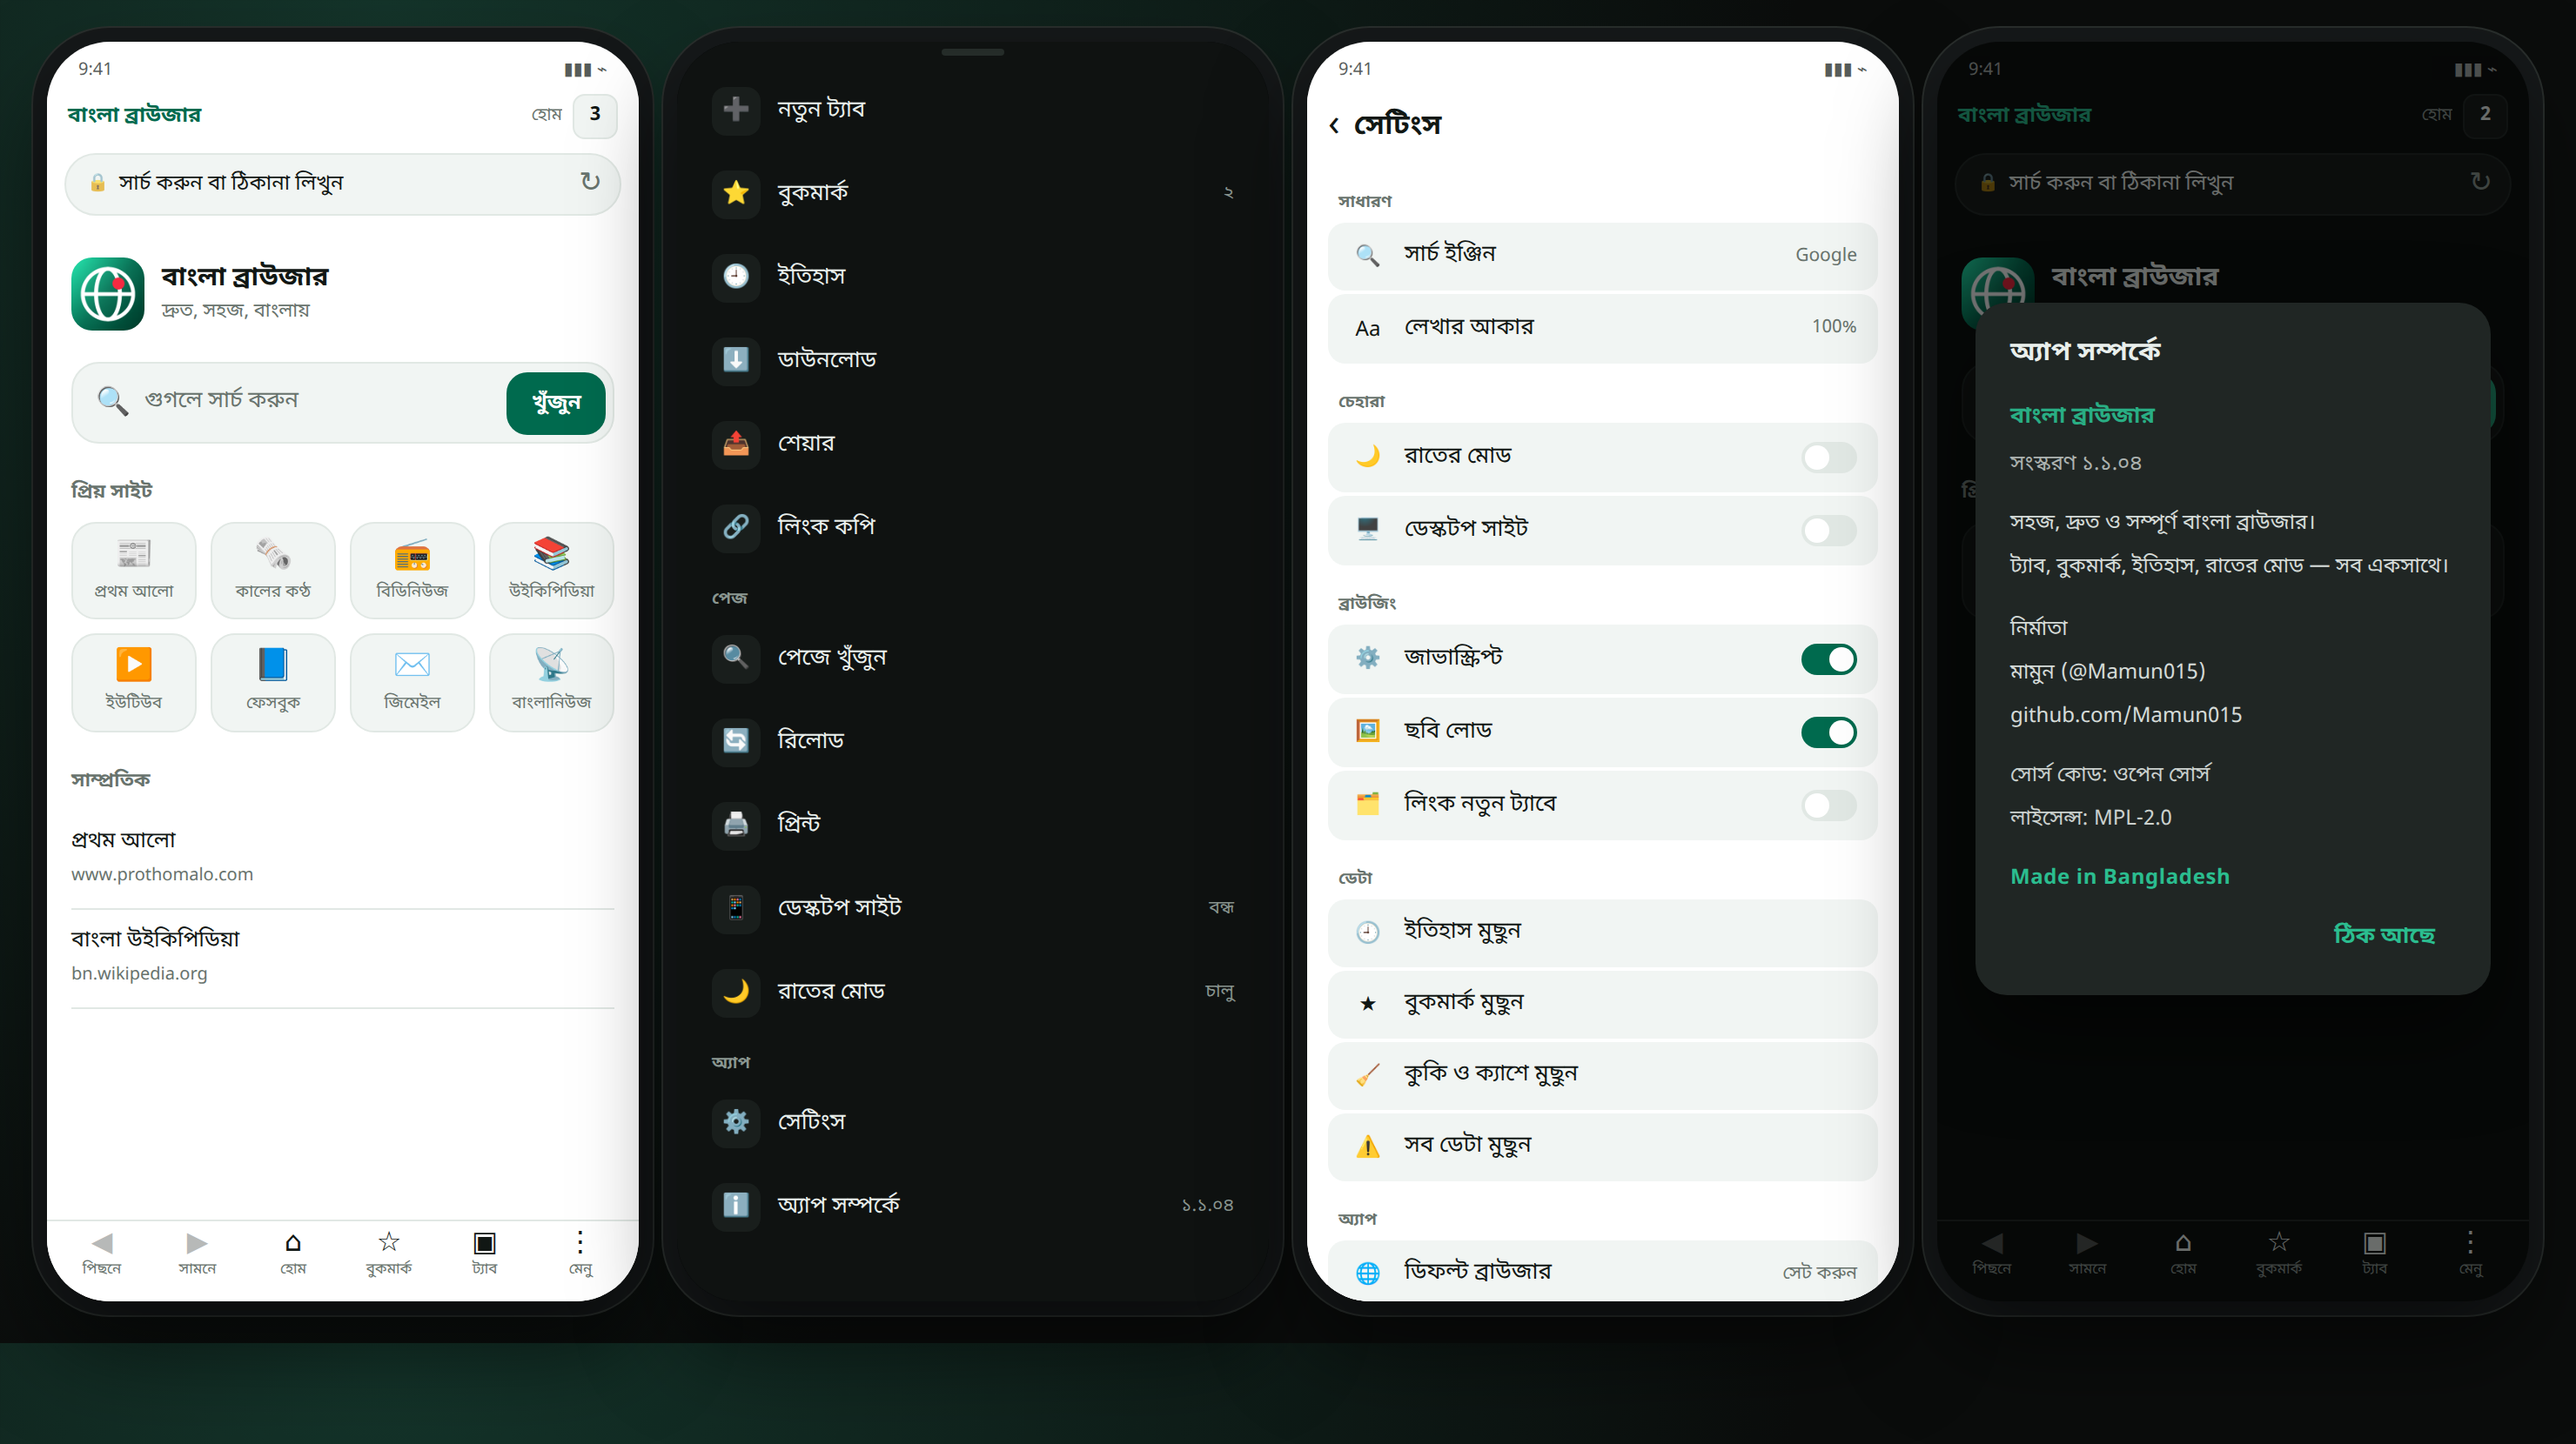
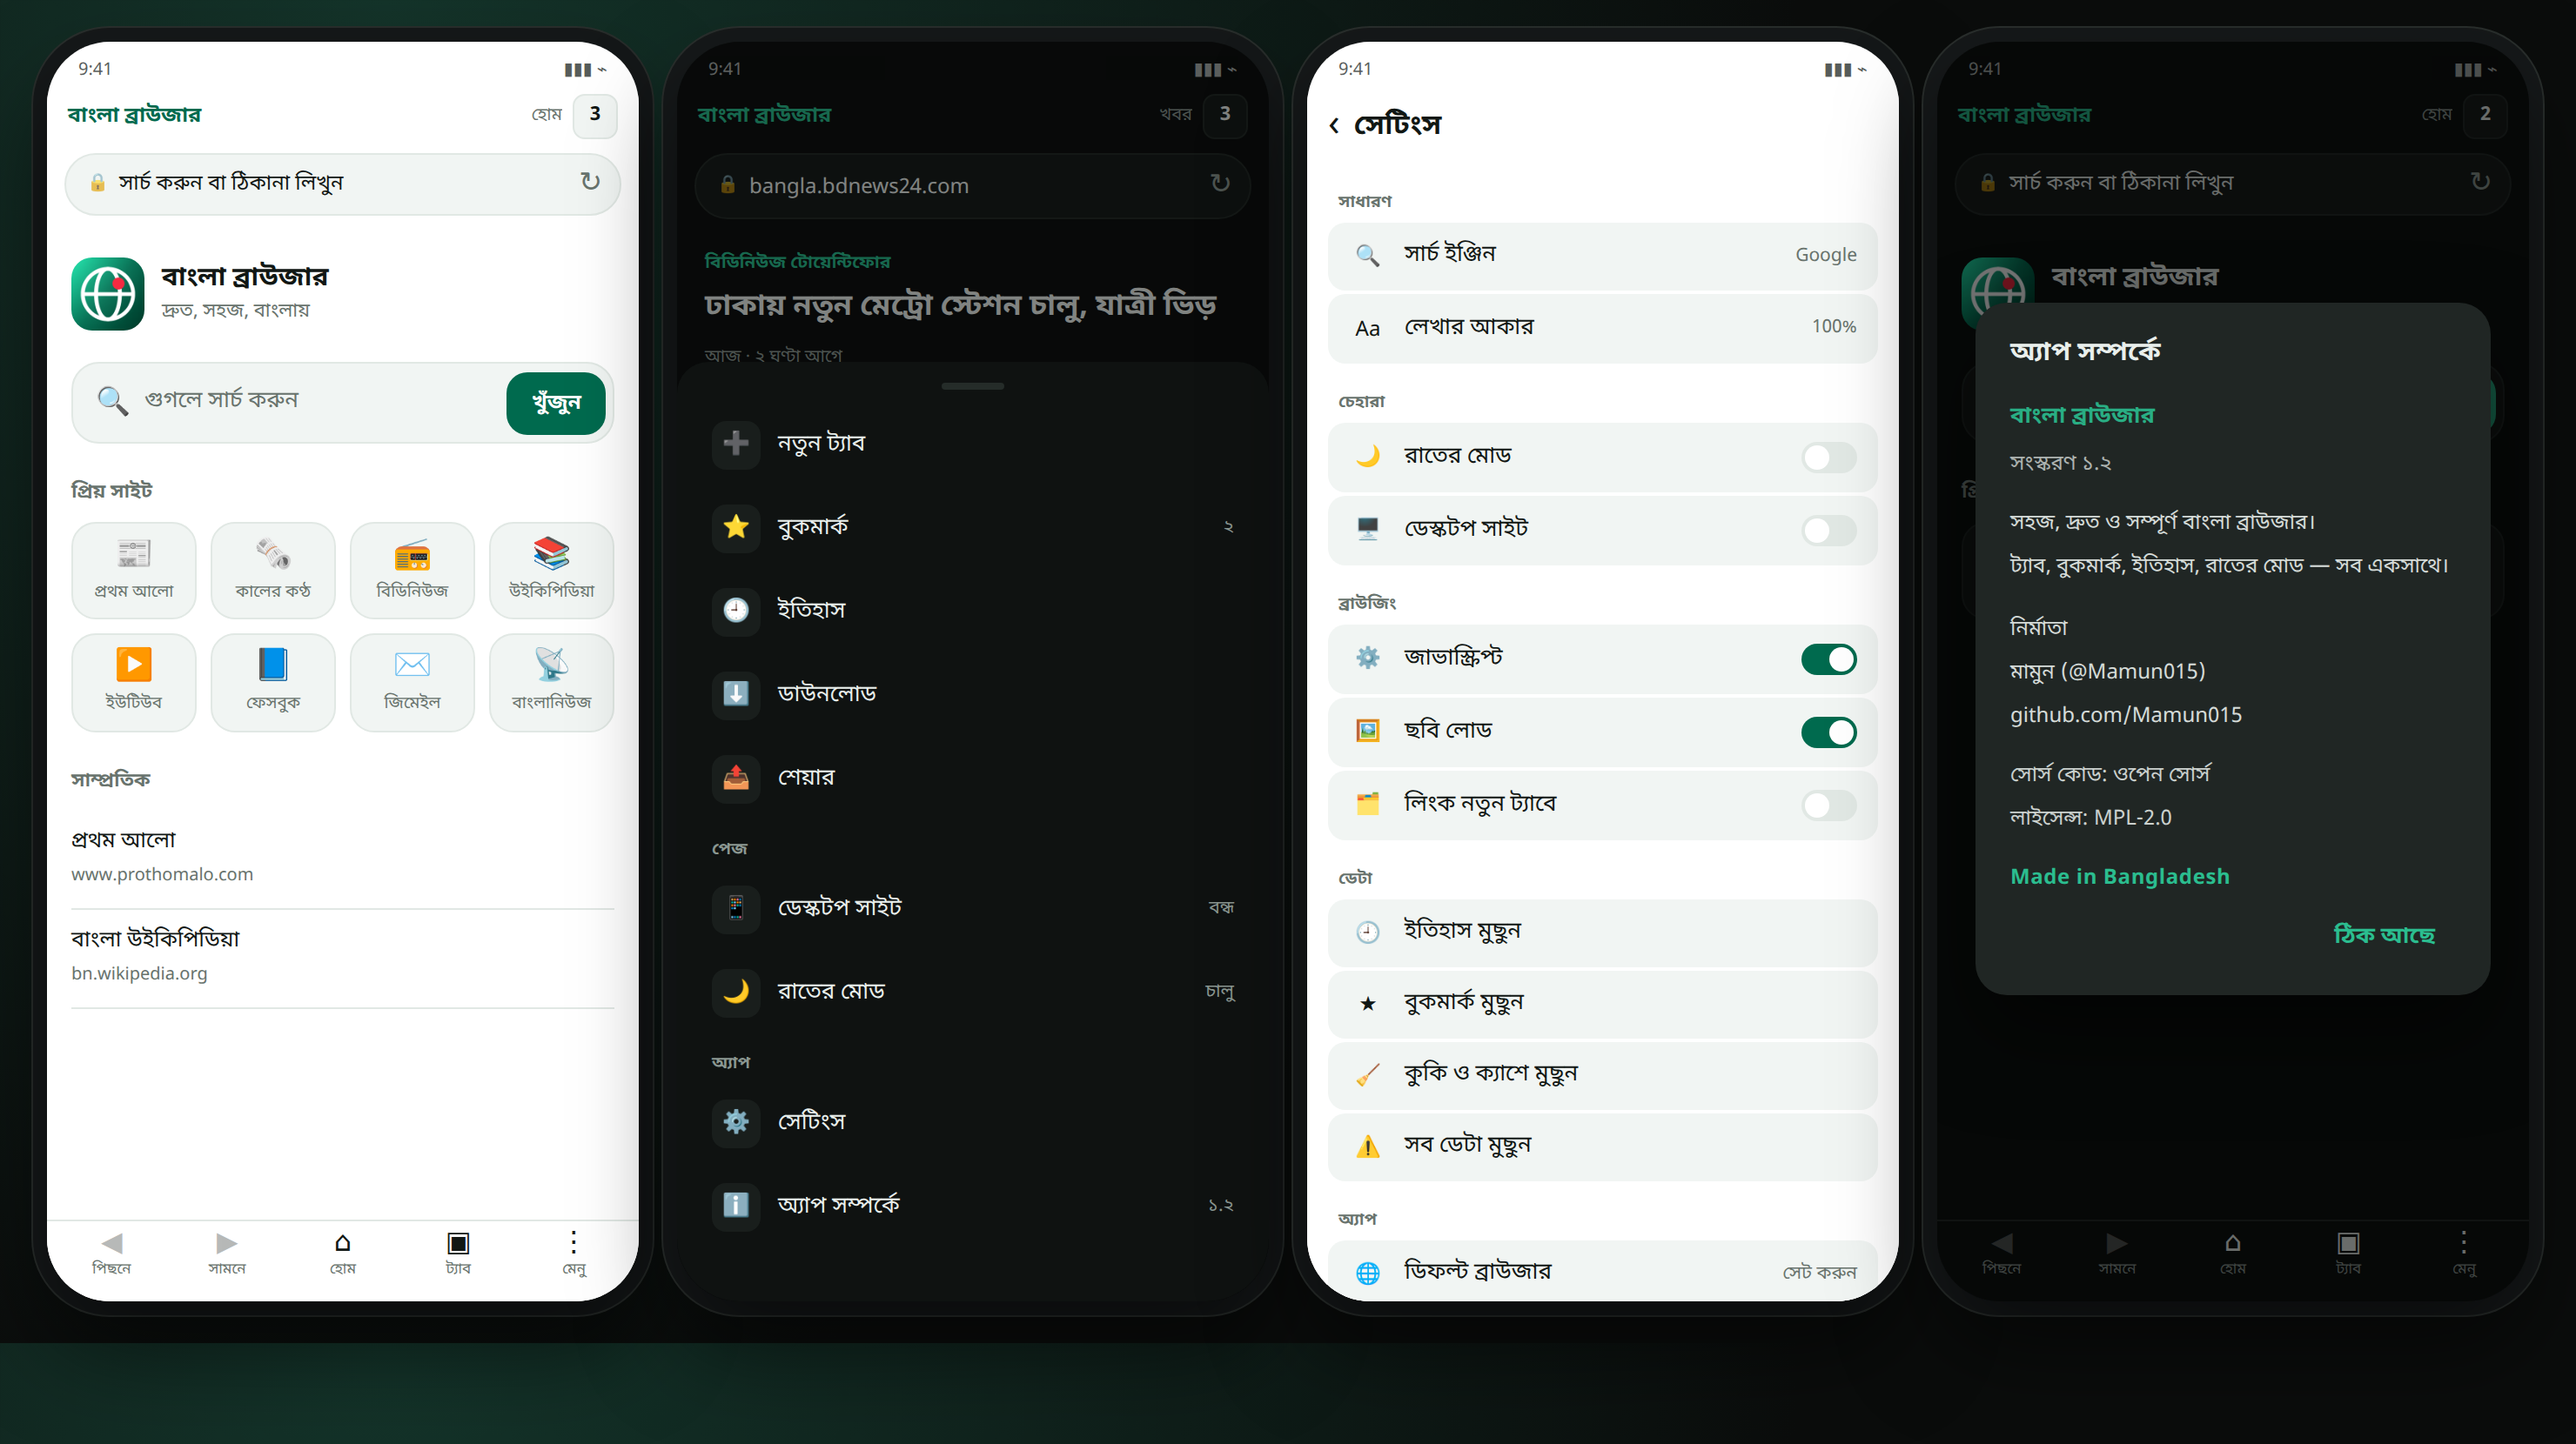
site: 1.2 release, four screenshot gallery for phones

diff --git a/index.html b/index.html
@@ -5,7 +5,7 @@
 <meta name="google-site-verification" content="VvvKrPlpBMTaPSt0qZbsMQRBtVzHeEQvF33vfzHtnF4" />
 <meta name="viewport" content="width=device-width, initial-scale=1">
 <title>বাংলা ব্রাউজার (Bangla Browser) — Free Bengali Browser for Android</title>
-<meta name="description" content="Download বাংলা ব্রাউজার, a free, fast and light Android browser with a full Bengali interface. Tabs, bookmarks, history, dark mode. No ads, no tracking. APK 105 KB, MPL-2.0 license.">
+<meta name="description" content="Download বাংলা ব্রাউজার, a free, fast and light Android browser with a full Bengali interface. Tabs, bookmarks, history, dark mode. No ads, no tracking. APK 121 KB, MPL-2.0 license.">
 <meta name="keywords" content="Bangla Browser, বাংলা ব্রাউজার, Bengali browser, Bengali browser for Android, Android browser, Bangla APK, বাংলা অ্যাপ, ব্রাউজার, WebView browser, Bengali app download">
 <meta name="author" content="Mamun (@Mamun015)">
 <meta name="robots" content="index, follow, max-image-preview:large, max-snippet:-1">
@@ -18,7 +18,7 @@
 <meta property="og:type" content="website">
 <meta property="og:site_name" content="Bangla Browser">
 <meta property="og:title" content="বাংলা ব্রাউজার — Bangla Browser for Android">
-<meta property="og:description" content="A free, fast Android browser with a full Bengali interface. Tabs, bookmarks, dark mode. No ads, no tracking. Download the 105 KB APK.">
+<meta property="og:description" content="A free, fast Android browser with a full Bengali interface. Tabs, bookmarks, dark mode. No ads, no tracking. Download the 121 KB APK.">
 <meta property="og:url" content="https://mamun015.github.io/bangla-browser/">
 <meta property="og:image" content="https://mamun015.github.io/bangla-browser/screenshot.png">
 <meta property="og:image:alt" content="বাংলা ব্রাউজার অ্যাপের চারটি স্ক্রিনশট">
@@ -41,8 +41,8 @@
   "applicationCategory": "BrowserApplication",
   "applicationSubCategory": "Web Browser",
   "operatingSystem": "Android 5.0 and newer",
-  "softwareVersion": "1.1.04",
-  "fileSize": "105KB",
+  "softwareVersion": "1.2",
+  "fileSize": "121KB",
   "inLanguage": "bn",
   "license": "https://mozilla.org/MPL/2.0/",
   "isAccessibleForFree": true,
@@ -51,7 +51,7 @@
   "screenshot": "https://mamun015.github.io/bangla-browser/screenshot.png",
   "featureList": [
     "Full Bengali interface",
-    "Up to 8 tabs with a tab switcher",
+    "Up to 32 tabs with a tab switcher",
     "Bookmarks and history",
     "Dark mode",
     "Downloads and file uploads",
@@ -170,9 +170,15 @@
   h2 { font-size: clamp(24px, 3.4vw, 32px); margin: 0 0 8px; letter-spacing: -.3px; }
   .sub { color: var(--muted); margin: 0 0 28px; max-width: 46em; }
 
-  .shot { margin: 0; border-radius: var(--radius); overflow-x: auto; overflow-y: hidden; background: #0b0d0c; box-shadow: var(--shadow); -webkit-overflow-scrolling: touch; }
-  .shot img { width: 100%; }
-  @media (max-width: 760px) { .shot img { width: 860px; max-width: none; } }
+  .shots { display: grid; grid-template-columns: repeat(4, 1fr); gap: 14px; }
+  .shots img { width: 100%; height: auto; display: block; border-radius: 18px;
+    box-shadow: 0 16px 34px rgba(0,0,0,.45); background: #0b0d0c; }
+  @media (max-width: 900px) {
+    .shots { display: flex; gap: 12px; overflow-x: auto; padding: 4px 2px 10px;
+      scroll-snap-type: x mandatory; -webkit-overflow-scrolling: touch; }
+    .shots img { flex: 0 0 68%; width: 68%; scroll-snap-align: center; }
+  }
+  @media (max-width: 430px) { .shots img { flex: 0 0 82%; width: 82%; } }
   .cap { font-size: 13px; color: var(--muted); margin-top: 12px; text-align: center; }
 
   .features { display: grid; grid-template-columns: repeat(3, 1fr); gap: 16px; }
@@ -237,7 +243,7 @@
           <a class="btn ghost" href="https://github.com/Mamun015/bangla-browser">সোর্স কোড</a>
         </div>
         <div class="chips">
-          <span class="chip">সংস্করণ ১.১.০৪</span>
+          <span class="chip">সংস্করণ ১.২</span>
           <span class="chip">Android 5.0+</span>
           <span class="chip">১০৫ কিলোবাইট</span>
           <span class="chip">MPL-2.0 লাইসেন্স</span>
@@ -253,10 +259,13 @@
     <div class="wrap">
       <h2>অ্যাপের ভেতরে</h2>
       <p class="sub">হোম পেজ, Edge-স্টাইল মেনু, সেটিংস আর অ্যাপ সম্পর্কে — এক নজরে।</p>
-      <figure class="shot">
-        <img src="screenshot.png" alt="Bangla Browser screenshots: home page, bottom menu, settings and About dialog" loading="lazy" width="2960" height="1660">
-      </figure>
-      <p class="cap">বাংলা ব্রাউজার ১.১.০৪ · Android · <span style="white-space:nowrap">ছোট স্ক্রিনে পাশে স্ক্রল করো</span></p>
+      <div class="shots">
+        <img src="shot-1.png" alt="বাংলা ব্রাউজারের হোম পেজ" loading="lazy">
+        <img src="shot-2.png" alt="নিচ থেকে ওঠা মেনু" loading="lazy">
+        <img src="shot-3.png" alt="সেটিংস স্ক্রিন" loading="lazy">
+        <img src="shot-4.png" alt="অ্যাপ সম্পর্কে ডায়ালগ" loading="lazy">
+      </div>
+      <p class="cap">বাংলা ব্রাউজার ১.২ · Android · ছোট স্ক্রিনে পাশে সোয়াইপ করো</p>
     </div>
   </section>
 
@@ -266,7 +275,7 @@
       <p class="sub">দৈনন্দিন ব্রাউজিংয়ের জন্য যা দরকার, অপ্রয়োজনীয় কিছু ছাড়া।</p>
       <div class="features">
         <div class="feature"><span class="ico">🇧🇩</span><h3>সম্পূর্ণ বাংলা</h3><p>প্রতিটি বাটন, মেনু আর বার্তা বাংলায়। ইংরেজি জানা না থাকলেও চালানো যায়।</p></div>
-        <div class="feature"><span class="ico">🗂</span><h3>৮টা পর্যন্ত ট্যাব</h3><p>Chrome-এর মতো ট্যাব সুইচার। উপরের সংখ্যায় চাপ দিলেই সব ট্যাবের তালিকা।</p></div>
+        <div class="feature"><span class="ico">🗂</span><h3>৩২টা পর্যন্ত ট্যাব</h3><p>Chrome-এর মতো ট্যাব সুইচার। উপরের সংখ্যায় চাপ দিলেই সব ট্যাবের তালিকা।</p></div>
         <div class="feature"><span class="ico">⭐</span><h3>বুকমার্ক ও ইতিহাস</h3><p>পছন্দের পেজ সেভ থাকে ফোনেই। এক ট্যাপে পুরোনো ইতিহাসে ফেরা যায়।</p></div>
         <div class="feature"><span class="ico">🌙</span><h3>রাতের মোড</h3><p>রাতে চোখের আরামের জন্য পুরো অ্যাপ আর হোম পেজ কালো হয়ে যায়।</p></div>
         <div class="feature"><span class="ico">⚙</span><h3>সেটিংস</h3><p>সার্চ ইঞ্জিন, লেখার আকার, জাভাস্ক্রিপ্ট, ছবি লোড — সব নিজের মতো সেট করা যায়।</p></div>
@@ -281,7 +290,7 @@
       <p class="sub">Play Store লাগবে না। ফোনে সরাসরি APK ইনস্টল করা যায়।</p>
       <div class="steps">
         <div class="step"><h3>APK নামাও</h3><p>উপরের ডাউনলোড বাটনে চাপ দিয়ে ফোনের Downloads ফোল্ডারে ফাইলটা রাখো।</p></div>
-        <div class="step"><h3>ফাইলে ট্যাপ করো</h3><p>ফাইল ম্যানেজার খুলে <b>BanglaBrowser-1.1.04.apk</b>-তে ট্যাপ করো।</p></div>
+        <div class="step"><h3>ফাইলে ট্যাপ করো</h3><p>ফাইল ম্যানেজার খুলে <b>BanglaBrowser-1.2.apk</b>-তে ট্যাপ করো।</p></div>
         <div class="step"><h3>Install চাপো</h3><p>Android অচেনা সোর্সের অনুমতি চাইলে "Allow" দাও, তারপর Install।</p></div>
       </div>
       <p class="note">পুরোনো ভার্সন থাকলে মুছতে হবে না। নতুন APK পুরোনোটার উপর বসবে, বুকমার্ক আর ইতিহাস অটুট থাকবে।</p>
